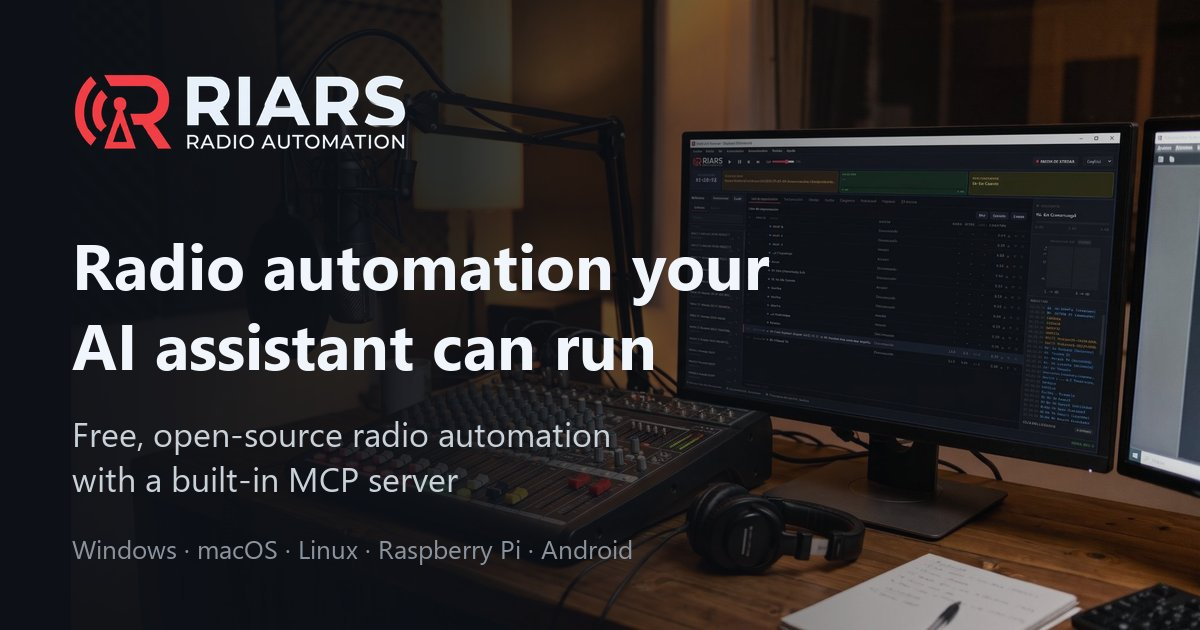
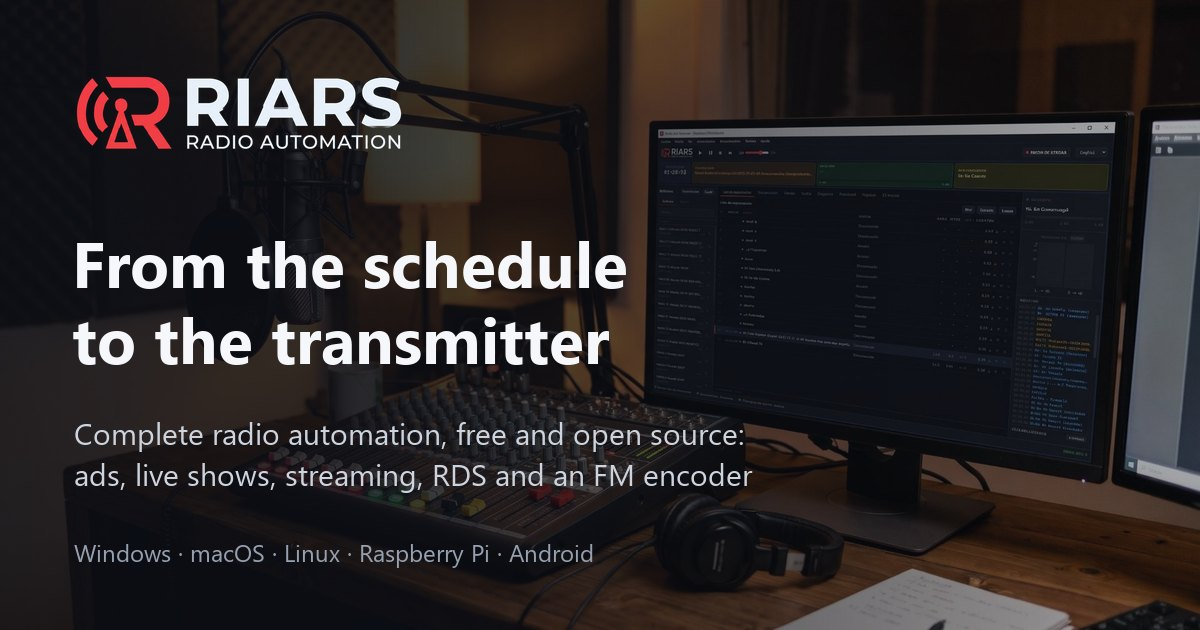
Website and README: one message, from the schedule to the transmitter
Page titles, share titles and the share images now carry the same
slogan as the new intro instead of the old AI-first one. The README
intro and feature list match the website.

diff --git a/website/index.html b/website/index.html
@@ -3,11 +3,11 @@
 <head>
   <meta charset="utf-8">
   <meta name="viewport" content="width=device-width, initial-scale=1">
-  <title>RIARS — Automatización de radio con IA, gratis y open source</title>
+  <title>RIARS — Automatización de radio completa, gratis y open source</title>
   <meta name="description" content="RIARS es un software de automatización de radio gratuito y de código abierto: parrilla, publicidad, directo, streaming, RDS y codificador estéreo FM, y también se maneja con asistentes de IA. Windows, macOS, Linux, Raspberry Pi y Android.">
   <meta name="theme-color" content="#0d1117">
   <meta property="og:type" content="website">
-  <meta property="og:title" content="RIARS — Automatización de radio con IA, gratis y open source">
+  <meta property="og:title" content="RIARS — Automatización de radio completa, gratis y open source">
   <meta property="og:description" content="RIARS es un software de automatización de radio gratuito y de código abierto: parrilla, publicidad, directo, streaming, RDS y codificador estéreo FM, y también se maneja con asistentes de IA. Windows, macOS, Linux, Raspberry Pi y Android.">
   <meta property="og:url" content="https://thorkelstlkr.github.io/RIARS-Renou-Integral-Automation-Radio-Solution-/">
   <meta property="og:site_name" content="RIARS">
@@ -16,9 +16,9 @@
   <meta property="og:image" content="https://thorkelstlkr.github.io/RIARS-Renou-Integral-Automation-Radio-Solution-/img/og-es.jpg">
   <meta property="og:image:width" content="1200">
   <meta property="og:image:height" content="630">
-  <meta property="og:image:alt" content="RIARS: la radio que tu asistente de IA sabe programar">
+  <meta property="og:image:alt" content="RIARS: automatización de radio, de la parrilla al transmisor">
   <meta name="twitter:card" content="summary_large_image">
-  <meta name="twitter:title" content="RIARS — Automatización de radio con IA, gratis y open source">
+  <meta name="twitter:title" content="RIARS — Automatización de radio completa, gratis y open source">
   <meta name="twitter:description" content="RIARS es un software de automatización de radio gratuito y de código abierto: parrilla, publicidad, directo, streaming, RDS y codificador estéreo FM, y también se maneja con asistentes de IA. Windows, macOS, Linux, Raspberry Pi y Android.">
   <meta name="twitter:image" content="https://thorkelstlkr.github.io/RIARS-Renou-Integral-Automation-Radio-Solution-/img/og-es.jpg">
   <link rel="canonical" href="https://thorkelstlkr.github.io/RIARS-Renou-Integral-Automation-Radio-Solution-/">

diff --git a/website/en/index.html b/website/en/index.html
@@ -3,11 +3,11 @@
 <head>
   <meta charset="utf-8">
   <meta name="viewport" content="width=device-width, initial-scale=1">
-  <title>RIARS — AI-ready radio automation, free and open source</title>
+  <title>RIARS — Complete radio automation, free and open source</title>
   <meta name="description" content="RIARS is free, open-source radio automation software: programming grid, advertising, live shows, streaming, RDS and an FM stereo encoder, and AI assistants can run it too. Windows, macOS, Linux, Raspberry Pi and Android.">
   <meta name="theme-color" content="#0d1117">
   <meta property="og:type" content="website">
-  <meta property="og:title" content="RIARS — AI-ready radio automation, free and open source">
+  <meta property="og:title" content="RIARS — Complete radio automation, free and open source">
   <meta property="og:description" content="RIARS is free, open-source radio automation software: programming grid, advertising, live shows, streaming, RDS and an FM stereo encoder, and AI assistants can run it too. Windows, macOS, Linux, Raspberry Pi and Android.">
   <meta property="og:url" content="https://thorkelstlkr.github.io/RIARS-Renou-Integral-Automation-Radio-Solution-/en/">
   <meta property="og:site_name" content="RIARS">
@@ -16,9 +16,9 @@
   <meta property="og:image" content="https://thorkelstlkr.github.io/RIARS-Renou-Integral-Automation-Radio-Solution-/img/og-en.jpg">
   <meta property="og:image:width" content="1200">
   <meta property="og:image:height" content="630">
-  <meta property="og:image:alt" content="RIARS: radio automation your AI assistant can run">
+  <meta property="og:image:alt" content="RIARS: radio automation, from the schedule to the transmitter">
   <meta name="twitter:card" content="summary_large_image">
-  <meta name="twitter:title" content="RIARS — AI-ready radio automation, free and open source">
+  <meta name="twitter:title" content="RIARS — Complete radio automation, free and open source">
   <meta name="twitter:description" content="RIARS is free, open-source radio automation software: programming grid, advertising, live shows, streaming, RDS and an FM stereo encoder, and AI assistants can run it too. Windows, macOS, Linux, Raspberry Pi and Android.">
   <meta name="twitter:image" content="https://thorkelstlkr.github.io/RIARS-Renou-Integral-Automation-Radio-Solution-/img/og-en.jpg">
   <link rel="canonical" href="https://thorkelstlkr.github.io/RIARS-Renou-Integral-Automation-Radio-Solution-/en/">

diff --git a/README.md b/README.md
@@ -2,19 +2,26 @@
 
 [![License: MIT](https://img.shields.io/badge/License-MIT-blue.svg)](LICENSE)
 
-Software de automatizacion de emisora de radio, open source y multiplataforma. Diseñado para ser gestionado tanto por humanos como por agentes de IA.
+Automatización de radio completa, de la parrilla al transmisor. Gratis, open source y multiplataforma: lleva una emisora entera las 24 horas, emite por Internet y por FM con RDS, y si quieres, un asistente de IA puede manejarla contigo.
+
+Web: https://thorkelstlkr.github.io/RIARS-Renou-Integral-Automation-Radio-Solution-/
 
 ## Funcionalidades
 
-- **Reproductor de audio** — MP3, FLAC, WAV, OGG, AAC con crossfade automatico
-- **Gestor de playlists** — Crea, edita y organiza listas de reproduccion
-- **Programador horario** — Automatiza la emision por franjas horarias y dias de la semana
-- **Biblioteca musical** — Escanea carpetas, lee metadatos, busca por titulo/artista/genero
-- **Streaming** — Emision en directo a servidores Icecast y Shoutcast
-- **Mezclador** — Control de volumen, panorama y medidores VU en tiempo real
-- **API REST + WebSocket** — Control remoto completo para integraciones y dashboards
-- **Servidor MCP** — Soporte nativo para agentes IA (Claude, etc.) via Model Context Protocol
-- **Modo headless** — Funciona sin interfaz grafica en servidores y Raspberry Pi
+- **Automatización de largo plazo** — Relojes de formato, parrilla semanal con excepciones por fecha y categorías con reglas; el generador llena la lista durante días o semanas
+- **Publicidad** — Anunciantes y campañas con cuñas al día, franjas, máximo por hora y patrocinios, con informes de emisión
+- **Directo con micrófono** — La música baja sola al abrir el micro; modos automático, asistido y manual
+- **Banco de sonidos** — Ocho páginas de 24 botones para jingles, efectos y cortinas
+- **Intros y outros** — El identificativo suena sobre la intro instrumental y termina antes de la voz
+- **Normalización** — Sonoridad EBU R128, −16 LUFS por defecto
+- **Crossfade y detector de silencio** — Transiciones suaves; salta el elemento si la salida se queda en silencio
+- **Pestañas de lista** — Prepara el siguiente programa mientras suena la lista en antena
+- **Biblioteca y metadatos** — Escanea carpetas y completa datos y carátulas con MusicBrainz, con tu visto bueno
+- **Streaming** — Emite en MP3 a Icecast, incluso sin tarjeta de sonido en modo servidor
+- **RDS** — PS, RadioText y RT+ a codificadores externos (UECP o texto, por red, serie o archivo)
+- **Codificador estéreo FM** — Genera la señal MPX completa con piloto, estéreo y RDS en 57 kHz, en una tarjeta de 192 kHz
+- **API REST + WebSocket y servidor MCP** — Control remoto para paneles, integraciones y agentes de IA (Claude, etc.)
+- **Modo headless** — Funciona sin interfaz gráfica en servidores y Raspberry Pi
 
 ## Plataformas soportadas
 
